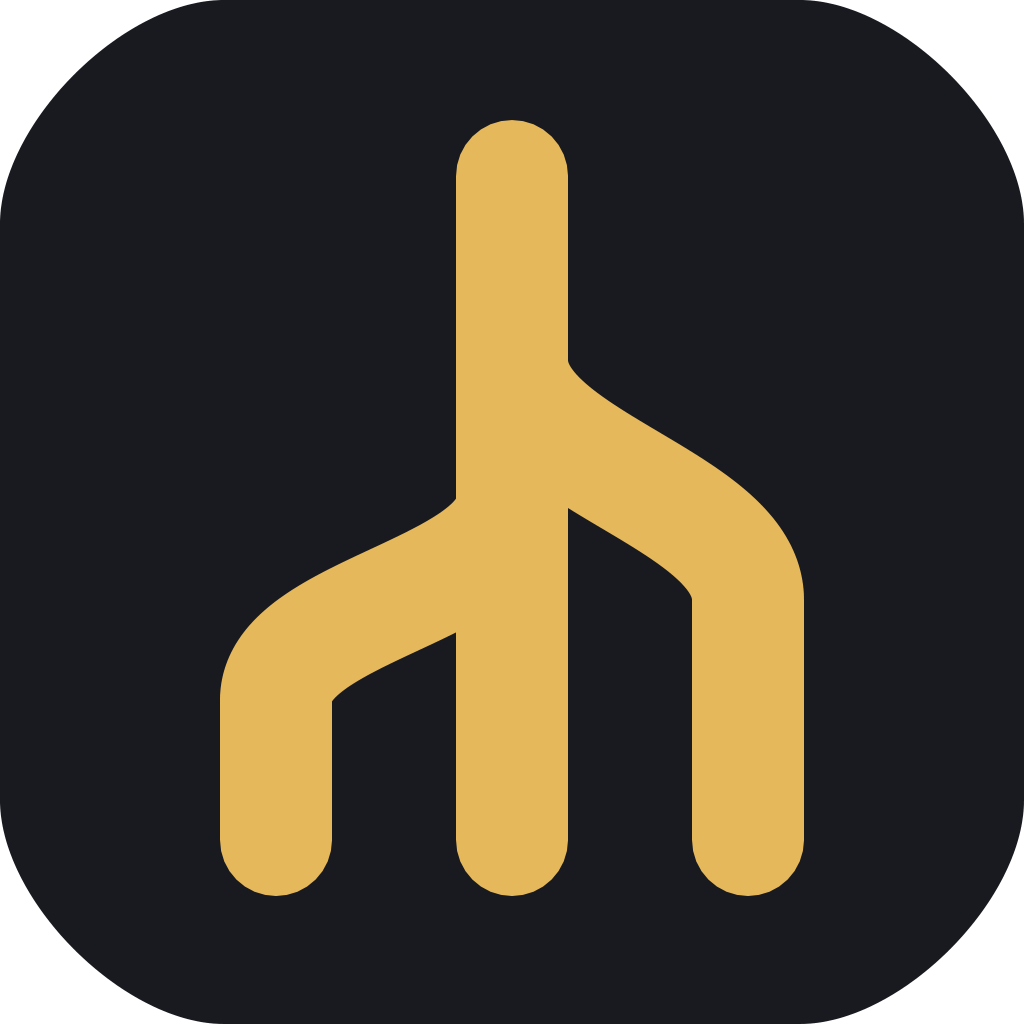
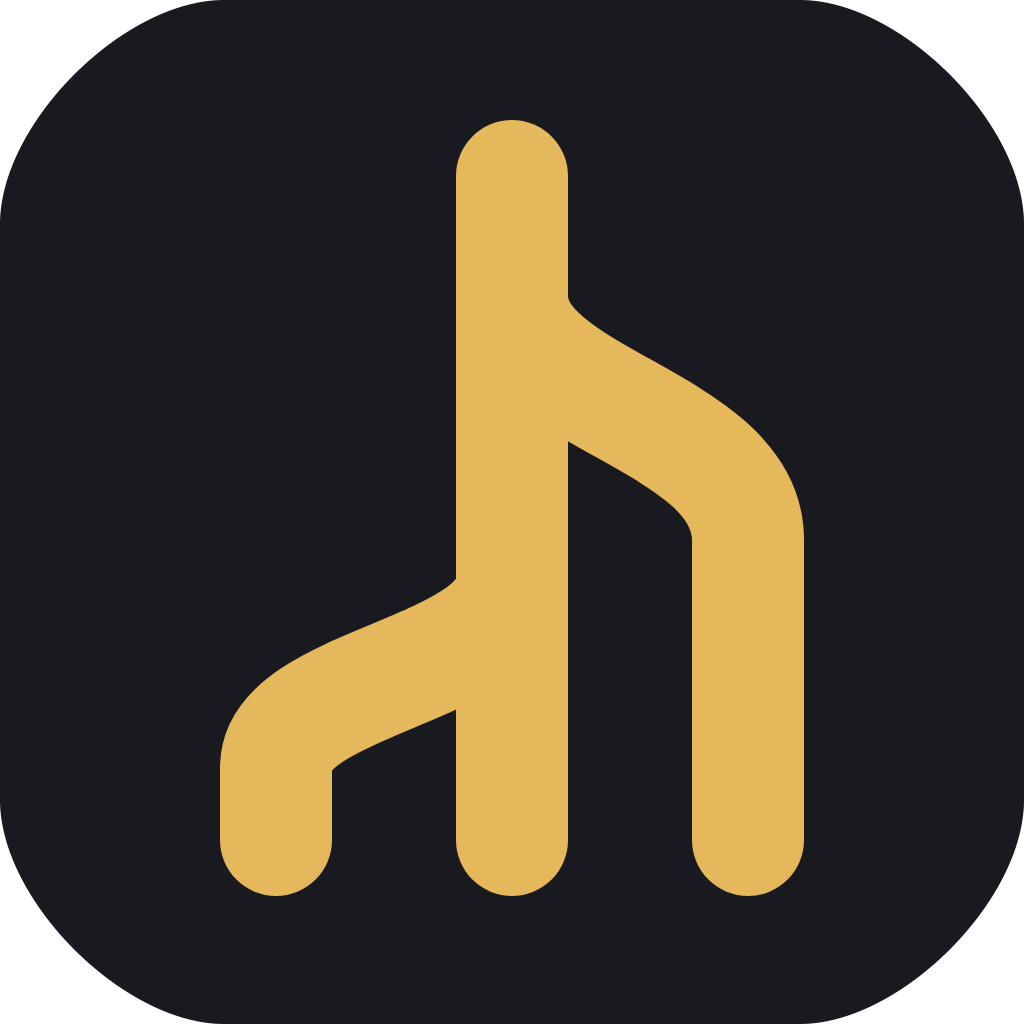
lanes 0.4.55 — the mark is the strong stagger, which still reads as staggered at 16px (LANES-59)
The 0.4.51 mark's side lanes land on the main line only a little apart, and at 16px (the
backlog view's tab icon) they read as one height, a symmetric fork. The stronger-stagger
variant kept as the alternate vector source since 0.4.51 becomes the mark everywhere: the
vector source, the 1024px listing PNG, and the copy embedded in backlog_index.py that draws
the view's header and tab icon. The previous mark is kept as the alternate. The listing PNG
keeps the old one's square, corners and format; only the strokes inside it are re-rendered.

Changed region(s): [[0.1875, 0.5, 0.4688, 0.75], [0.5312, 0.2812, 0.8125, 0.5625], [0.5312, 0.4375, 0.6875, 0.5938]]

diff --git a/scripts/backlog_index.py b/scripts/backlog_index.py
@@ -1527,14 +1527,15 @@ DUE_FOLD = 5
 # Dropped first on a narrow screen, so a phone still gets ID / title / pri / status.
 SECONDARY_COLS = ("type", "assignee", "epic", "opened", "commit", "resolution", "due")
 
-# The lanes mark (LANES-58): a main line with two lanes landing on it at staggered heights.
+# The lanes mark (LANES-58): a main line with two lanes landing on it at staggered heights --
+# the strong stagger since LANES-59, which still reads as staggered at tab-icon size.
 # Embedded, not read from the plugin's assets, because no plugin text names the icon files by
 # path (0.4.7). Keep it in step with the vector source when the mark changes.
 LOGO_BODY = ('<rect width="1024" height="1024" rx="224" fill="#181a20"/>'
              '<g fill="none" stroke="#e6b85c" stroke-width="112" stroke-linecap="round" '
              'stroke-linejoin="round"><path d="M512 840V176"/>'
-             '<path d="M276 840V700C276 610 512 590 512 500"/>'
-             '<path d="M748 840V600C748 500 512 460 512 360"/></g>')
+             '<path d="M276 840V768C276 680 512 672 512 580"/>'
+             '<path d="M748 840V540C748 420 512 400 512 296"/></g>')
 # Inline in the header: HTML needs no namespace on an <svg> element.
 LOGO_INLINE = f'<svg class="logo" viewBox="0 0 1024 1024" aria-hidden="true">{LOGO_BODY}</svg>'
 # The tab icon: a standalone SVG does need its namespace, so it is base64 in a data: URI -- the

diff --git a/CHANGELOG.md b/CHANGELOG.md
@@ -1,5 +1,18 @@
 # Changelog
 
+## 0.4.55 — the mark is the strong stagger, which still reads as staggered at 16px (2026-10-26)
+
+- **The 0.4.51 mark lost its stagger at small sizes** (LANES-59). Its side lanes land on the main
+  line only a little apart, and at 16px, the tab icon's size, they read as landing at one height,
+  a symmetric fork. Kyle: *"the staggering is barely visible at smaller resolutions"*.
+- **The stronger-stagger variant kept beside it since 0.4.51 is now the mark everywhere:** the
+  vector source, the 1024px listing PNG, and the copy embedded in `backlog_index.py` that draws the
+  backlog view's header and tab icon. The left lane lands lower and the right one higher, and both
+  still read as separate heights at 16 and 24px. The previous mark is kept as the alternate vector
+  source, so the choice stays a swap. The listing PNG keeps the old one's square, corners and
+  format (RGB, white corners); only the strokes inside it are re-rendered. No text names either
+  file by path (0.4.7).
+
 ## 0.4.54 — a slice is a lane; startup and closeout read as the startup and shutdown sequences (2026-10-25)
 
 - **One word for a claimed group of issues: a lane** (LANES-57). Since LANES-49 a slice was already
